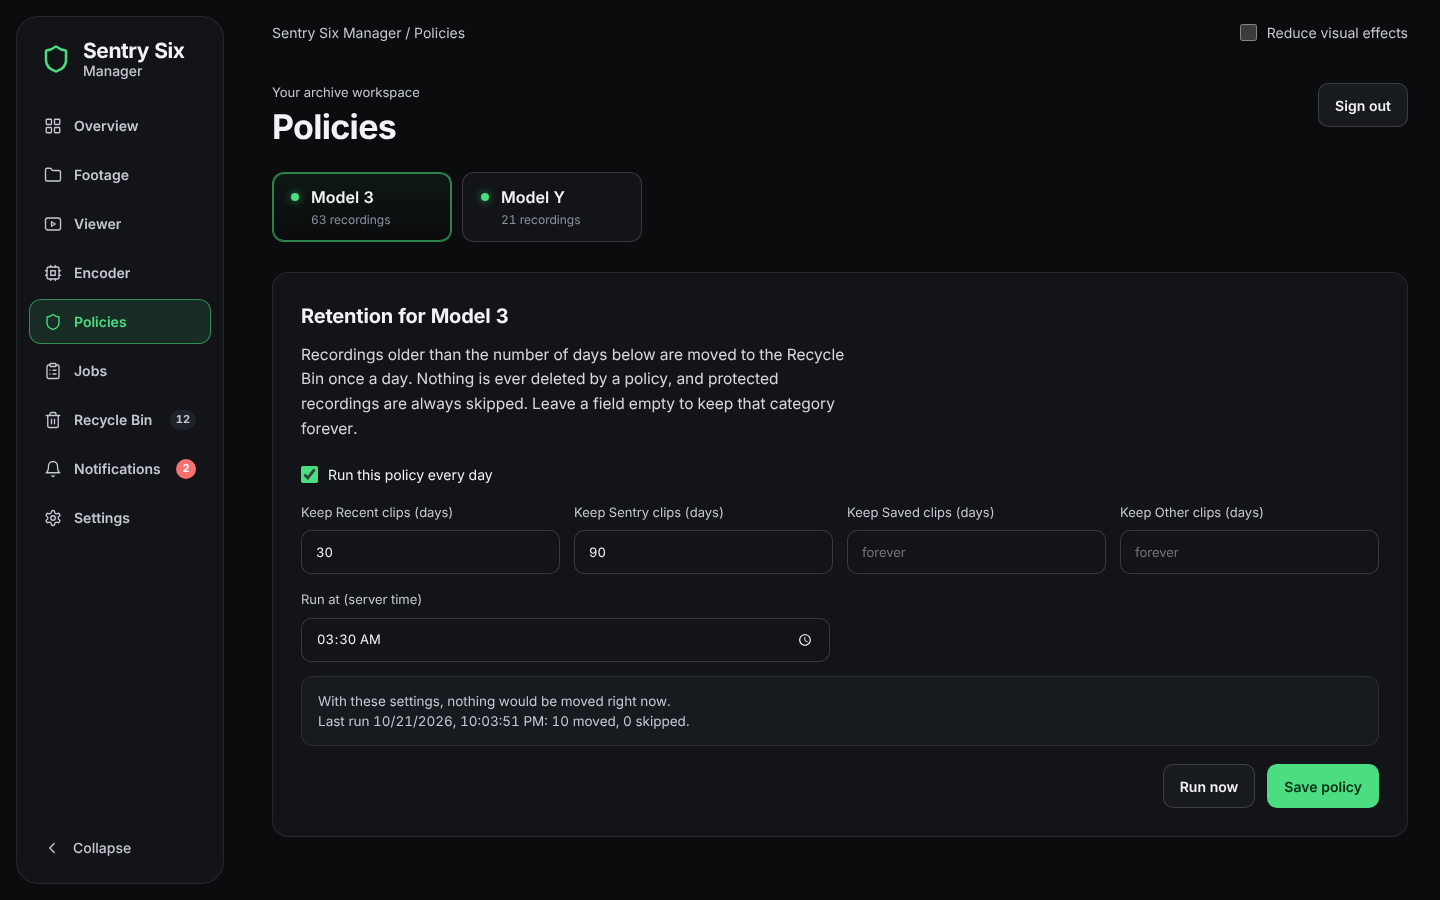
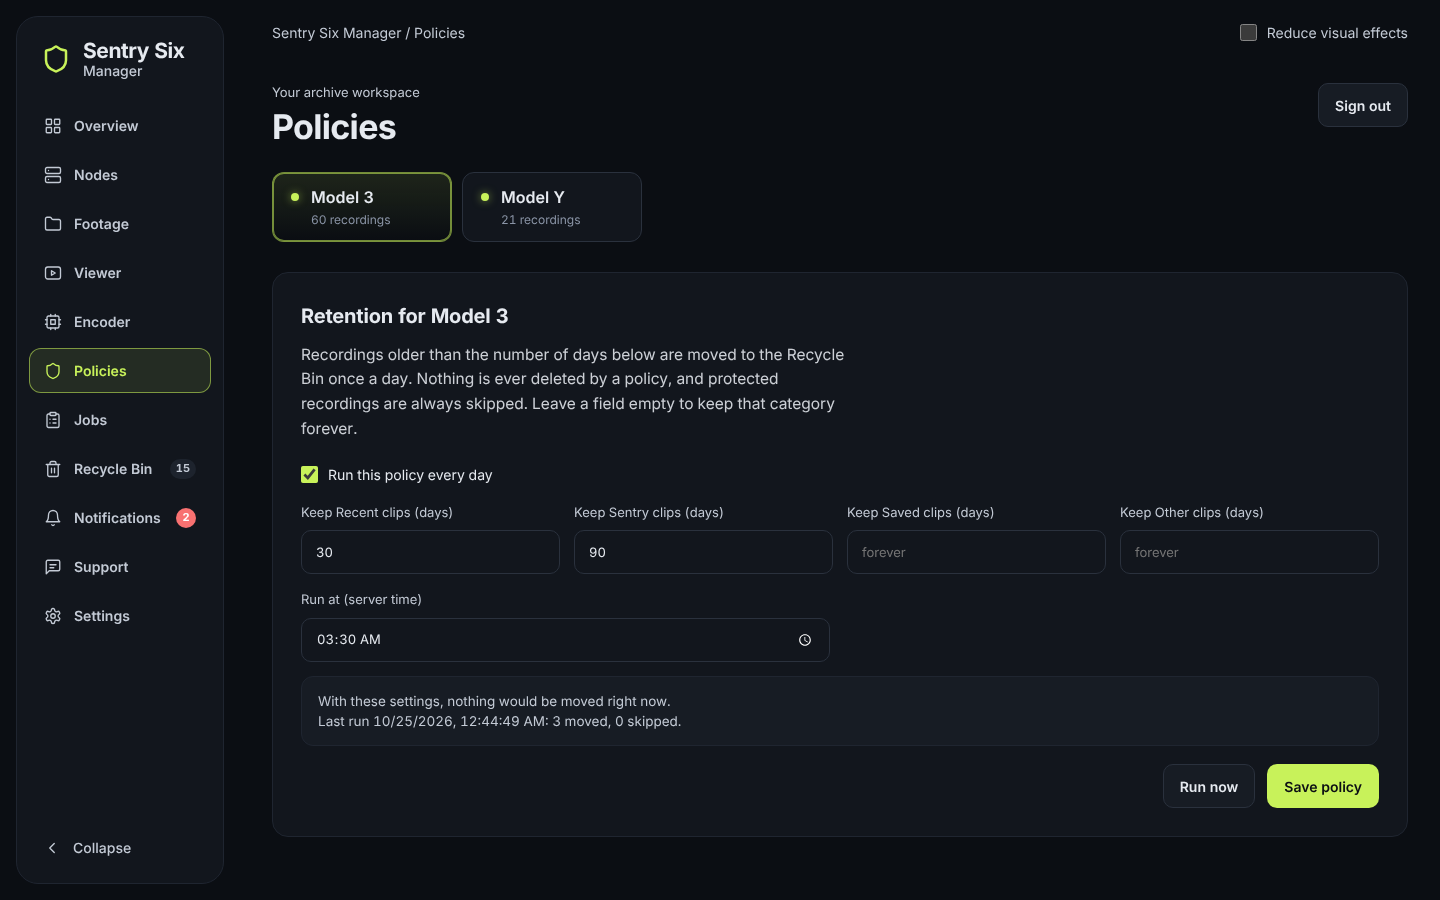
README: Support, log archive, per-file codecs and converter fixes; new pictures
- New Support section with a picture: the chat, attachments, diagnostics
  and what is sent to api.sentry-six.com.
- Footage: Show files lists each clip's codec and Not encoded only.
- Encoder: unusual Tesla clips (mid-GOP start, skipped frame), give-ups
  retried after a converter update, the page after a restart.
- Logs: Clear moves them to logs/archive/; clearing is audited.
- Pictures retaken on the current build: Overview, Encoder, Recycle Bin,
  Policies, Security and the phones (the side bar now has Support).

Claude-Session: https://claude.ai/code/session_01Spt8c6C6xr7noy1Z42Yg6i

diff --git a/README.md b/README.md
@@ -28,6 +28,8 @@ Recycle Bin, retention policies, jobs and notifications.
 - **Secure by default.** HTTPS only, with its own certificate (nothing to
   install on your devices), SMB 3 shares that are always signed and
   encrypted, and a web app that never runs as root.
+- **Support.** Chat with the Sentry Six team from its own tab, with
+  pictures and optional diagnostics.
 - **Phones and tablets.** iPhone 14 and newer, Galaxy S22 and newer, and
   iPads from 2022 on.
 
@@ -132,6 +134,10 @@ move it to the Recycle Bin. A day stays open until you close it, and picking
 a date in the filter opens that day. The checkbox on a day selects all of
 its recordings.
 
+**Show files** lists a recording's clips with each one's codec (H.264, H.265
+or AV1), says how many are not encoded yet, and *Not encoded only* hides the
+rest, so a clip the Encoder skipped or could not convert is easy to find.
+
 ## Encoder
 
 ![Encoder](docs/images/encoder.png)
@@ -197,6 +203,15 @@ copies somewhere else is a choice you make in the Output section.
   back. An encode that reports no progress for 10 minutes (a stuck GPU or
   share) is stopped and redone the slower way, or fails. The automatic
   window resumes its job even when the pause had not taken effect yet.
+- **Unusual Tesla clips convert too.** Some clips start partway into a
+  group of frames, or have a frame Tesla's encoder skipped; both convert
+  with every frame at its original time and the telemetry intact, and are
+  verified like any other clip.
+- **Gave up is not forever.** The automatic window stops retrying a clip
+  after it fails three times, or when converting it would not save space.
+  When an update changes the converter, those clips are tried again once.
+- **After a restart** the Encoder page shows the job that is running now,
+  even if the page was left open while the server restarted.
 
 ### GPU
 
@@ -270,6 +285,23 @@ interrupted) off the list after you confirm how many, so what shows up next
 is what happened since. Running, waiting and paused jobs stay. Only the list
 is cleared: footage, converted files and what the Encoder needs to resume a
 conversion are not touched.
+
+## Support
+
+![Support](docs/images/support.png)
+
+**Support** in the side bar is a chat with the Sentry Six team. The first
+message opens a ticket, and the team's replies show up on the same tab.
+Pictures, videos and log files (up to 50 MB) can be attached, and the
+team's pictures open in a popup over the chat. *Include diagnostics* adds
+the version, OS, CPU and GPU and the recent warnings, with addresses, share
+names, footage paths and email addresses removed.
+
+This is the one thing Sentry Six Manager talks to outside your network: the
+server relays the chat to `api.sentry-six.com` (and fetches pictures the
+team sends from Discord's file server). The ticket's key stays on the
+server, the browser only ever talks to your own server, and nothing is sent
+until you send a message.
 
 ## Vehicles and SMB shares
 
@@ -447,8 +479,9 @@ a malicious video on a share cannot become root or read the certificate
 authority's key.
 
 **An audit trail.** Sign-ins, password confirmations, vehicle changes,
-certificate names, permanent deletions and Clear jobs are logged with who did
-them and from which address, never with a password. Look for `[audit]` in
+certificate names, permanent deletions, Clear jobs and clearing the logs
+are logged with who did them and from which address, never with a password.
+Look for `[audit]` in
 `docker logs sentry-six-manager` or in the Overview's Logs (tick
 *Everything*).
 
@@ -462,6 +495,10 @@ in the data folder (`logs/manager.log`, at most about 10 MB with the
 previous file), survive restarts, and anything that looks like a password is
 masked. No shell on the server is needed. (Old links to Settings > Logs,
 `#/settings/logs`, open them there.)
+
+**Clear** starts the list afresh without deleting anything: the earlier
+lines move to `logs/archive/` in the data folder, and *Cleared logs* under
+the list downloads them again.
 
 ## Settings
 
